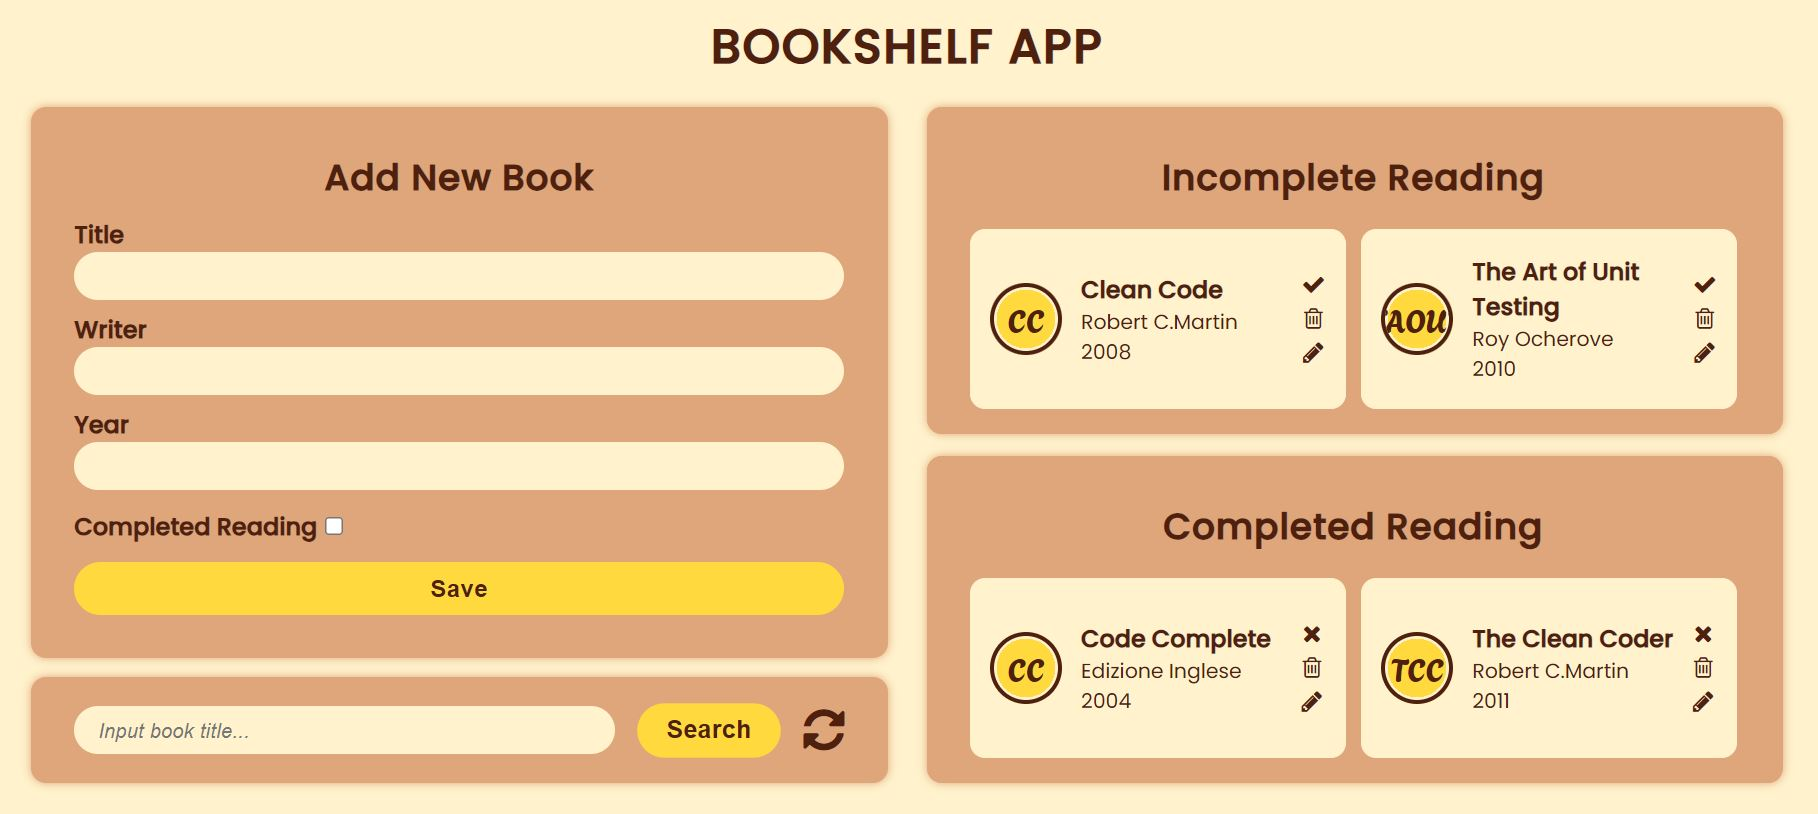
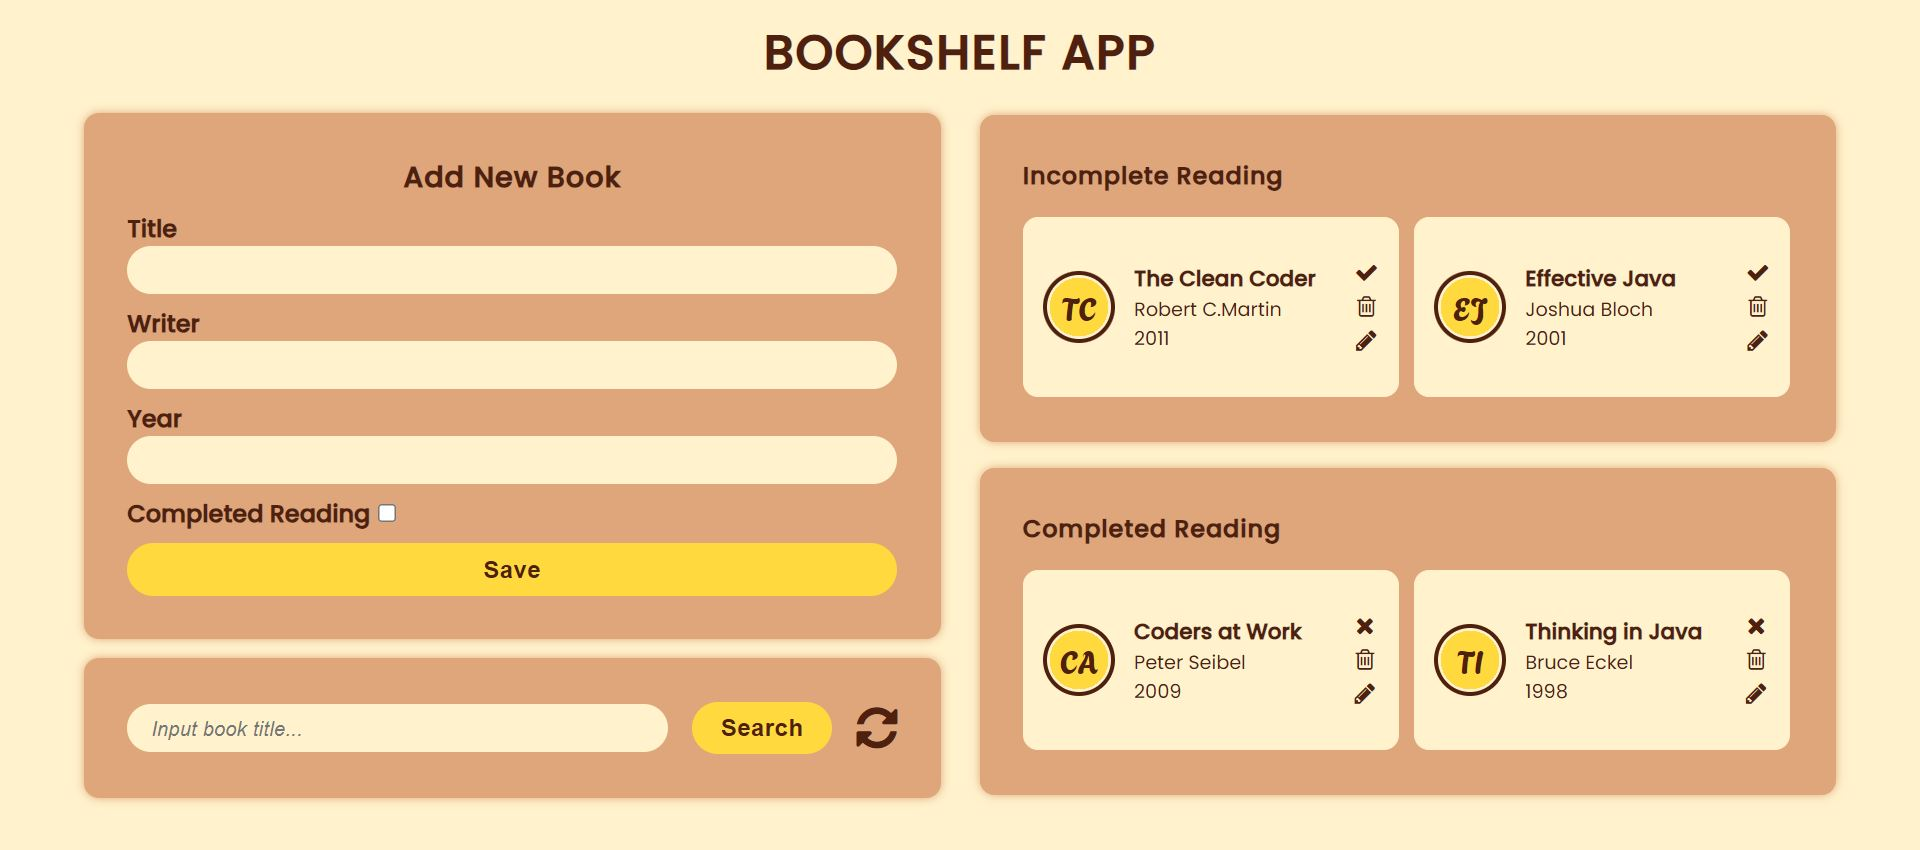
add form validation

diff --git a/main.js b/main.js
@@ -13,19 +13,21 @@ document.addEventListener('DOMContentLoaded', () => {
     const reloadButton = document.getElementById('reloadButton');
 
     submitBook.addEventListener('click', (event) => {
+        
         addBook();
         event.preventDefault();
         const inputs = document.querySelectorAll('#inputBookTitle, #inputBookAuthor, #inputBookYear');
         inputs.forEach(input => {
             input.value = '';
         });
+
     });
 
     searchSubmit.addEventListener('click', (event) =>{
         event.preventDefault();
         const searchTitle = document.getElementById('searchBookTitle').value;
         if (searchTitle !== '') searchBook(searchTitle);
-        else alert('Silahkan isi kolom pencarian buku');
+        else alert('Please fill in the book search field');
     });
 
     reloadButton.addEventListener('click', (event) => {
@@ -80,10 +82,16 @@ const addBook = () => {
 
     checkHeadTitle();
 
-    if(bookTitle !== '' && bookAuthor!=='' && bookYear!==''){
-        const bookObject = generateBookObject(bookId, bookTitle, bookAuthor, bookYear, bookIsRead);
-        books.push(bookObject);
-    } else alert('Silahkan lengkapi formulir Buku Baru');
+    if(bookTitle !== '' && bookAuthor!=='' && bookYear!=='') {
+        if(bookYear >= 1800 && bookYear <= 2023) {
+            const bookObject = generateBookObject(bookId, bookTitle, bookAuthor, bookYear, bookIsRead);
+            books.push(bookObject);
+        } else {
+            document.getElementById('error-message').style.display = 'block';
+        }
+    } else{
+        document.getElementById('error-message').style.display = 'block';
+    }
 
     document.dispatchEvent(new CustomEvent(RENDER_EVENT));
     document.dispatchEvent(new CustomEvent(NOTE_EVENT));
@@ -129,7 +137,6 @@ const makeElement = (book) => {
     articleContainer.classList.add('book_item');
     articleContainer.setAttribute('id', `book-${book.id}`)
     
-
     const initialImg = generateImg(book.title);
     const bookImg = document.createElement('div');
     bookImg.classList.add('book_image');
@@ -382,18 +389,19 @@ const elemenBookResult = (bookSearch) => {
     mainDiv[0].insertBefore(resultTitle, beforeDiv);
 }
 
-
-
-
 function generateImg(title) {
-    const splitTitle = title.split(" ");
-    let firstLetter = "";
+    const words = title.split(" ");
+    let initials = "";
 
-    for (let i = 0; i < splitTitle.length; i++) {
-        firstLetter += splitTitle[i].charAt(0).toUpperCase();
+    for (let i = 0; i < words.length; i++) {
+        const word = words[i];
+        if (word) {
+            initials += word[0].toUpperCase();
+        }
     }
-    
-    return firstLetter;
+
+    if (initials.length >= 2) {
+        initials = initials.slice(0, 2);
+    }
+    return initials;
 }
-
-

diff --git a/style.css b/style.css
@@ -19,7 +19,6 @@ body {
   font-family: 'Poppins', sans-serif;
   max-width: 1300px;
   margin: auto;
-  /* overflow: hidden; */
   background: var(--white);
   color: var(--brown);
 }
@@ -71,9 +70,22 @@ main {
   color: var(--brown)
 }
 
-h2 {
+.left h2 {
   text-align: center;
+  font-size: 1.2rem;
+}
+
+h2 {
   letter-spacing: 0.6px;
+  font-size: 1rem;
+}
+
+.book_description h3 {
+  font-size: 0.9rem;
+}
+
+.book_description p {
+  font-size: 0.8rem;
 }
 
 .input {
@@ -120,7 +132,7 @@ h2 {
 }
  
 .search_section {
-  padding-block: 1.1rem;
+  flex-grow: 1;
 }
 
 #searchBook {
@@ -154,7 +166,6 @@ h2 {
   overflow-y: auto;
   flex-basis: 1;
   height: 218px;
-  /* max-height: fit-content; */
 }
 
 .book_shelf h2 {
@@ -254,21 +265,17 @@ h2 {
   z-index: 999;
 }
 
-
 .edit_section > form > .action > button {
   display: block;
   padding: 8px ;
   margin: 10px 0px;
   cursor: pointer;
-  
-  
   background: var(--yellow);
   color: var(--brown);
   border: none; 
   font-weight: 600;
   height:2.2rem;
 }
-
 
 .edit_section > form > .action > .white {
   background-color: white;

diff --git a/index.html b/index.html
@@ -28,7 +28,7 @@
         </div>
         <div class="input">
           <label for="inputBookYear">Year</label>
-          <input id="inputBookYear" type="number" min="1200" max="2023" required>
+          <input id="inputBookYear" type="number" min="1800" max="2023" required>
         </div>
         <div class="input inline">
           <label for="inputBookIsComplete">Completed Reading</label>

diff --git a/README.md b/README.md
@@ -39,4 +39,4 @@ The "Bookshelf-App" is built using various technologies, including:
 5. Fill in book information and click "Save" to add it to your list.
 6. You can view the list of books you've added and also edit, toggle completion status, or remove books as needed.
 
-Copyright © 2023 [Azalya Rahmatika](azalyarahmatika.com)
+Copyright © 2023 [Azalya Rahmatika](https.azalyarahmatika.com)
